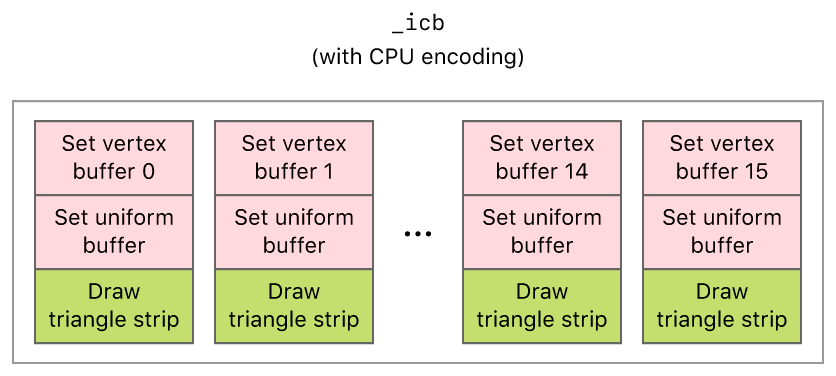
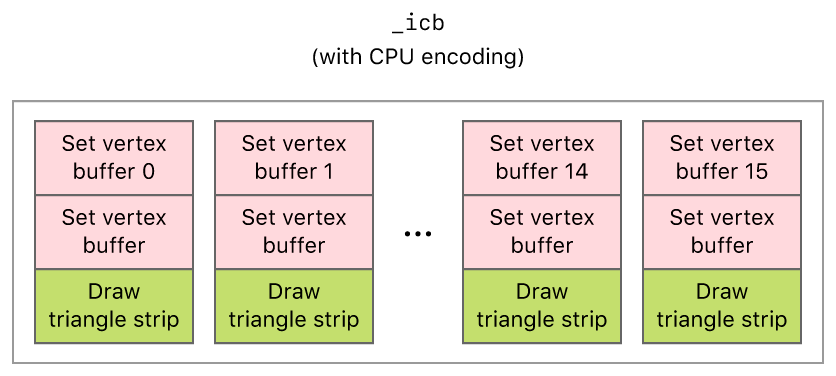
Updated readme artwork, fixed duplicate depth texture, added support for all iOS interface orientations, added check for feature set support, added optimization operation for indirect command buffer.

diff --git a/Renderer/AAPLRenderer.m b/Renderer/AAPLRenderer.m
@@ -33,7 +33,6 @@ static const NSUInteger AAPLMaxBuffersInFlight = 3;
     id <MTLBuffer> _vertexBuffer[AAPLNumShapes];
     id <MTLFunction> _kernelFunction;
     id <MTLBuffer> _kernelShaderArgumentBuffer;
-    id <MTLSamplerState> _sampler;
 
     // Current buffer to fill with dynamic uniform data and set for the current frame
     uint _currentBufferIndex;
@@ -120,15 +119,6 @@ static const NSUInteger AAPLMaxBuffersInFlight = 3;
         NSLog(@"Failed to created pipeline state, error %@", error);
     }
 
-    MTLSamplerDescriptor *samplerDesc = [MTLSamplerDescriptor new];
-    samplerDesc.minFilter = MTLSamplerMinMagFilterLinear;
-    samplerDesc.magFilter = MTLSamplerMinMagFilterLinear;
-    samplerDesc.mipFilter = MTLSamplerMipFilterNotMipmapped;
-    samplerDesc.normalizedCoordinates = YES;
-    samplerDesc.supportArgumentBuffers = YES;
-
-    _sampler = [_device newSamplerStateWithDescriptor:samplerDesc];
-
     MTLDepthStencilDescriptor *depthStateDesc = [[MTLDepthStencilDescriptor alloc] init];
     depthStateDesc.depthCompareFunction = MTLCompareFunctionEqual;
     depthStateDesc.depthWriteEnabled = YES;
@@ -190,7 +180,9 @@ static const NSUInteger AAPLMaxBuffersInFlight = 3;
     MTLIndirectCommandBufferDescriptor* icbDescriptor = [[MTLIndirectCommandBufferDescriptor alloc] init];
 
     icbDescriptor.commandTypes = MTLIndirectCommandTypeDraw;
+#if !TARGET_IOS
     icbDescriptor.inheritPipelineState = TRUE;
+#endif
     icbDescriptor.inheritBuffers = FALSE;
     icbDescriptor.maxVertexBufferBindCount = 2;
     icbDescriptor.maxFragmentBufferBindCount = 0;
@@ -213,6 +205,18 @@ static const NSUInteger AAPLMaxBuffersInFlight = 3;
               instanceCount:1
                baseInstance:0];
     }
+    
+    id <MTLCommandBuffer> commandBuffer = [_commandQueue commandBuffer];
+    commandBuffer.label = @"Indirect Command Buffer Optimization";
+    
+    id<MTLBlitCommandEncoder> blitEncoder = [commandBuffer blitCommandEncoder];
+    blitEncoder.label = @"Indirect Command Buffer Optimization Encoding";
+    
+    [blitEncoder optimizeIndirectCommandBuffer:_icb withRange:NSMakeRange(0, AAPLNumShapes)];
+    [blitEncoder endEncoding];
+    
+    [commandBuffer commit];
+    [commandBuffer waitUntilCompleted];
 #endif
 }
 
@@ -273,6 +277,13 @@ static const NSUInteger AAPLMaxBuffersInFlight = 3;
                        threadsPerThreadgroup:_threadgroupSize];
 
         [computeEncoder endEncoding];
+        
+        id<MTLBlitCommandEncoder> blitEncoder = [commandComputeBuffer blitCommandEncoder];
+        blitEncoder.label = @"Indirect Command Buffer Optimization";
+        
+        [blitEncoder optimizeIndirectCommandBuffer:_icb withRange:NSMakeRange(0, AAPLNumShapes)];
+        [blitEncoder endEncoding];
+        
         [commandComputeBuffer commit];
         [commandComputeBuffer waitUntilCompleted];
 #endif
@@ -302,13 +313,6 @@ static const NSUInteger AAPLMaxBuffersInFlight = 3;
     // If we've gotten a renderPassDescriptor we can render to the drawable, otherwise we'll skip
     //   any rendering this frame because we have no drawable to draw to
     if(renderPassDescriptor != nil) {
-        MTLTextureDescriptor * depthBufferDescriptor = [MTLTextureDescriptor texture2DDescriptorWithPixelFormat:view.depthStencilPixelFormat
-                                                                                                          width:_currentWidth
-                                                                                                         height:_currentHeight
-                                                                                                      mipmapped:NO];
-        depthBufferDescriptor.usage = MTLTextureUsageRenderTarget | MTLTextureUsageShaderRead;
-        depthBufferDescriptor.storageMode = MTLStorageModePrivate;
-        renderPassDescriptor.depthAttachment.texture = [_device newTextureWithDescriptor:depthBufferDescriptor];
         renderPassDescriptor.depthAttachment.loadAction = MTLLoadActionClear;
         renderPassDescriptor.depthAttachment.clearDepth = _currentDepth;
 
@@ -327,7 +331,10 @@ static const NSUInteger AAPLMaxBuffersInFlight = 3;
         [renderEncoder setRenderPipelineState:_pipelineState];
         [renderEncoder setDepthStencilState:_depthState];
         [renderEncoder useResource:_uniformBuffers usage:MTLResourceUsageRead];
-        [renderEncoder useResource:_vertexBuffer[_currentFrameIndex] usage:MTLResourceUsageRead];
+        for (int indx = 0; indx < AAPLNumShapes; indx++)
+        {
+            [renderEncoder useResource:_vertexBuffer[indx] usage:MTLResourceUsageRead];
+        }
 
         // Draw everything in the ICB.
         // CPU encoding: all commands are encoded with a draw, but only 1 draw can pass depth test.

diff --git a/Application/AAPLViewController.m b/Application/AAPLViewController.m
@@ -29,6 +29,18 @@ Implementation of our cross-platform view controller
         return;
     }
 
+    BOOL supportICB = NO;
+#if TARGET_IOS
+    supportICB = [_view.device supportsFeatureSet:MTLFeatureSet_iOS_GPUFamily3_v4];
+#else
+    supportICB = [_view.device supportsFeatureSet:MTLFeatureSet_macOS_GPUFamily2_v1];
+#endif
+    if (!supportICB)
+    {
+        NSLog(@"Indirect Command Buffer is not supported on this GPU family or OS version");
+        return;
+    }
+    
     _renderer = [[AAPLRenderer alloc] initWithMetalKitView:_view];
 
     if(!_renderer)

diff --git a/README.md b/README.md
@@ -6,11 +6,27 @@ Demonstrates how to encode an indirect command buffer with the CPU or GPU, and t
 
 An indirect command buffer represents a group of commands that can be encoded with the CPU or GPU and executed repeatedly across multiple render command encoders. You use indirect command buffers to reduce CPU overhead, simplify command organization, and implement GPU-driven pipelines.
 
-In this sample, you'll learn how to define, create, encode, and execute commands in an indirect command buffer. In particular, you'll learn about the different Metal API and Metal shading language features that you use to encode indirect command buffers. The sample renders a series of 16 shapes using a vertex buffer, uniform buffer, and draw call encoded into an indirect command buffer.
+In this sample, you'll learn how to define, create, encode, and execute commands in an indirect command buffer. In particular, you'll learn about the different Metal API and Metal shading language features that you use to encode indirect command buffers. The sample renders a series of 16 shapes using two vertex buffers and a draw call encoded into an indirect command buffer.
 
 ## Getting Started
 
 The Xcode project contains schemes for running the sample on macOS or iOS, with CPU or GPU encoding enabled. The schemes define a `USE_CPU` preprocessor macro that determines whether the sample uses the CPU or GPU to encode the indirect command buffer. Metal is not supported in the iOS Simulator, so the iOS schemes require a physical device to run the sample. The default scheme is `BasicIndirectCommandBufferCPUEncoding-macOS`, which runs the sample as is on your Mac with CPU encoding enabled.
+
+Support for indirect command buffers starts with these feature sets:
+* `MTLFeatureSet_iOS_GPUFamily3_v4`
+* `MTLFeatureSet_iOS_GPUFamily4_v2`
+* `MTLFeatureSet_macOS_GPUFamily2_v1`
+
+The sample calls the `supportsFeatureSet:` method to check for support.
+
+``` objective-c
+    BOOL supportICB = NO;
+#if TARGET_IOS
+    supportICB = [_view.device supportsFeatureSet:MTLFeatureSet_iOS_GPUFamily3_v4];
+#else
+    supportICB = [_view.device supportsFeatureSet:MTLFeatureSet_macOS_GPUFamily2_v1];
+#endif
+```
 
 ## CPU Overhead and Indirect Command Buffers
 
@@ -44,8 +60,8 @@ Indirect command buffers are represented as `MTLIndirectCommandBuffer` objects. 
 
 For the indirect command buffer, `_icb`, the sample defines render commands that:
 
-1. Set the vertex buffer (using unique vertex data for each shape)
-2. Set the uniform buffer (with common transformation data for all shapes)
+1. Set a vertex buffer (using unique vertex data for each shape)
+2. Set another vertex buffer (using common transformation data for all shapes)
 3. Draw a triangle strip
 
 The sample encodes these commands differently for the CPU or the GPU. However, these commands are still encoded into both versions of the indirect command buffer.
@@ -57,15 +73,17 @@ The sample also allows `_icb` to inherit the render pipeline state from its pare
 The sample creates `_icb` from a `MTLIndirectCommandBufferDescriptor`, which defines the features and limits of an indirect command buffer.
 
 ``` objective-c
-MTLIndirectCommandBufferDescriptor* icbDescriptor = [[MTLIndirectCommandBufferDescriptor alloc] init];
+    MTLIndirectCommandBufferDescriptor* icbDescriptor = [[MTLIndirectCommandBufferDescriptor alloc] init];
 
-icbDescriptor.commandTypes = MTLIndirectCommandTypeDraw;
-icbDescriptor.inheritPipelineState = TRUE;
-icbDescriptor.inheritBuffers = FALSE;
-icbDescriptor.maxVertexBufferBindCount = 2;
-icbDescriptor.maxFragmentBufferBindCount = 0;
+    icbDescriptor.commandTypes = MTLIndirectCommandTypeDraw;
+#if !TARGET_IOS
+    icbDescriptor.inheritPipelineState = TRUE;
+#endif
+    icbDescriptor.inheritBuffers = FALSE;
+    icbDescriptor.maxVertexBufferBindCount = 2;
+    icbDescriptor.maxFragmentBufferBindCount = 0;
 
-_icb = [_device newIndirectCommandBufferWithDescriptor:icbDescriptor maxCommandCount:AAPLNumShapes options:0];
+    _icb = [_device newIndirectCommandBufferWithDescriptor:icbDescriptor maxCommandCount:AAPLNumShapes options:0];
 ```
 
 The sample specifies the types of commands, `commandTypes`, and the maximum number of commands, `maxCount`, so that Metal reserves enough space in memory for the sample to encode `_icb` successfully (with the CPU or GPU).
@@ -92,7 +110,7 @@ for (int indx = 0; indx < AAPLNumShapes; indx++)
 }
 ```
 
-The sample performs this encoding only once, before encoding any subsequent render commands. `_icb` contains a total of 16 draw calls, one for each shape to be rendered. Each draw call references the same uniform data, `_uniformBuffers`, but different vertex data, `_vertexBuffers[indx]`. Although the CPU encodes data only once, the sample issues 16 draw calls per frame.
+The sample performs this encoding only once, before encoding any subsequent render commands. `_icb` contains a total of 16 draw calls, one for each shape to be rendered. Each draw call references the same transformation data, `_uniformBuffers`, but different vertex data, `_vertexBuffers[indx]`. Although the CPU encodes data only once, the sample issues 16 draw calls per frame.
 
 ![Layout diagram that shows the commands encoded into an indirect command buffer with the CPU.](Documentation/IndirectCommandBufferCPUEncoding.png)
 
@@ -163,9 +181,46 @@ if (args.depth == (((device AAPLVertex *)args.vertex_buffers[cmd_idx])[0].positi
 }
 ```
 
-The sample performs this encoding once every 16 frames, in order to encode different data into the indirect command buffer for those frames. `_icb` contains a single draw call for the shape to be rendered. This draw call references the uniform data in `uniforms` and the vertex data in `vertex_buffers[cmd_idx]`. Although the GPU encodes data multiple times, the sample issues only one draw call per frame.
+The sample performs this encoding once every 16 frames, in order to encode different data into the indirect command buffer for those frames. `_icb` contains a single draw call for the shape to be rendered. This draw call references the transformation data in `uniforms` and the vertex data in `vertex_buffers[cmd_idx]`. Although the GPU encodes data multiple times, the sample issues only one draw call per frame.
 
 ![Layout diagram that shows the commands encoded into an indirect command buffer with the GPU.](Documentation/IndirectCommandBufferGPUEncoding.png)
+
+## Optimize an Indirect Command Buffer
+
+Because you set a buffer and render pipeline state for each draw command, some of this state can be redundant. After encoding commands, the sample calls the `optimizeIndirectCommandBuffer:withRange:` method to encode a blit operation that optimizes the contents of `_icb`. When Metal executes this operation, it attempts to remove redundant state within a specific range of the indirect command buffer. This optimization reduces the associated execution costs of the redundant state.
+
+- Note: The `reset()` command makes a draw a no-op, which adds some GPU overhead to the indirect command buffer. The optimization operation also reduces this additional cost.
+
+If the sample encodes `_icb` with the CPU, it then encodes the optimization operation in a separate command buffer.
+
+``` objective-c
+id <MTLCommandBuffer> commandBuffer = [_commandQueue commandBuffer];
+commandBuffer.label = @"Indirect Command Buffer Optimization";
+
+id<MTLBlitCommandEncoder> blitEncoder = [commandBuffer blitCommandEncoder];
+blitEncoder.label = @"Indirect Command Buffer Optimization Encoding";
+
+[blitEncoder optimizeIndirectCommandBuffer:_icb withRange:NSMakeRange(0, AAPLNumShapes)];
+[blitEncoder endEncoding];
+
+[commandBuffer commit];
+[commandBuffer waitUntilCompleted];
+```
+
+If the sample encodes `_icb` with the GPU, it also encodes the optimization operation in the same command buffer.
+
+``` objective-c
+id<MTLBlitCommandEncoder> blitEncoder = [commandComputeBuffer blitCommandEncoder];
+blitEncoder.label = @"Indirect Command Buffer Optimization";
+
+[blitEncoder optimizeIndirectCommandBuffer:_icb withRange:NSMakeRange(0, AAPLNumShapes)];
+[blitEncoder endEncoding];
+
+[commandComputeBuffer commit];
+[commandComputeBuffer waitUntilCompleted];
+```
+
+- Note: The `optimizeIndirectCommandBuffer:withRange:` command doesn't remove all redundant state, but it does remove a significant portion within hardware-dependent windows to the command buffer. This implementation achieves adequate parallelization for the optimization operation while significantly reducing redundant state.
 
 ## Execute an Indirect Command Buffer
 
@@ -175,11 +230,16 @@ The sample calls the `executeCommandsInBuffer:withRange:` method to execute the 
 [renderEncoder executeCommandsInBuffer:_icb withRange:NSMakeRange(0, AAPLNumShapes)];
 ```
 
+- Note: If an indirect command buffer is optimized, you can't call the `executeCommandsInBuffer:withRange:` method with a range that starts within the optimized region. You should specify a range that starts at the beginning of the optimized region and finishes at the end or within the optimized region.
+
 Similar to the arguments in an argument buffer, the sample calls the `useResource:usage:` method to indicate that the GPU can access the resources within an indirect command buffer.
 
 ``` objective-c
 [renderEncoder useResource:_uniformBuffers usage:MTLResourceUsageRead];
-[renderEncoder useResource:_vertexBuffer[_currentFrameIndex] usage:MTLResourceUsageRead];
+for (int indx = 0; indx < AAPLNumShapes; indx++)
+{
+    [renderEncoder useResource:_vertexBuffer[indx] usage:MTLResourceUsageRead];
+}
 ```
 
 The sample continues to execute `_icb` multiple times in subsequent render command encoders, as long as `_icb` contains valid commands to be executed.
